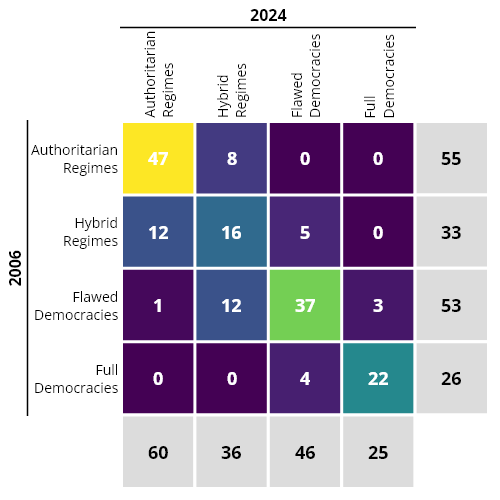
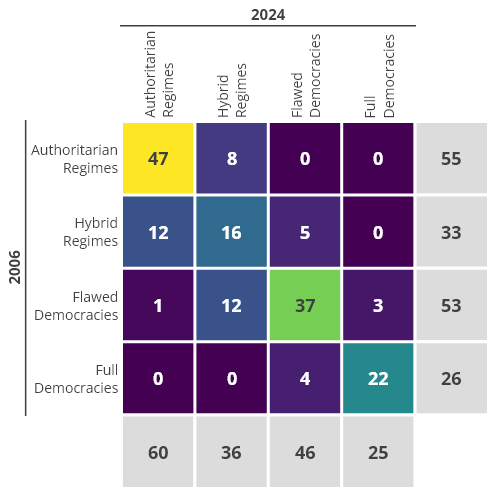
Adjust figure style.

diff --git a/reports/html/regime_migration.html b/reports/html/regime_migration.html
@@ -1,2 +1,2 @@
 <div>                        <script type="text/javascript">window.PlotlyConfig = {MathJaxConfig: 'local'};</script>
[2 lines of base64/hex data omitted]

diff --git a/src/plots.py b/src/plots.py
@@ -349,6 +349,7 @@ def plot_regions() -> None:
 
 
 def plot_regime_migration(start_year: int, end_year: int) -> None:
+    colors = Colors()
     m = get_migration_matrix(start_year, end_year)
     column_labels = ["Full<br>Democracies", "Flawed<br>Democracies",
                      "Hybrid<br>Regimes", "Authoritarian<br>Regimes"]
@@ -391,8 +392,8 @@ def plot_regime_migration(start_year: int, end_year: int) -> None:
         for c in range(num_cols):
             if not np.isnan(m[r, c]):
                 text_color = "white"
-                if (r == num_rows - 1 or c == num_cols - 1):
-                    text_color = "black"
+                if (r == num_rows - 1 or c == num_cols - 1 or m[r, c] >= 30):
+                    text_color = colors.DARK_GRAY
                 fig.add_annotation(
                     x=c, y=num_rows - r - 1,
                     text="<b>" + str(int(m[r, c])) + "</b>",
@@ -403,24 +404,26 @@ def plot_regime_migration(start_year: int, end_year: int) -> None:
         fig.add_annotation(
             x=i, y=1, text=column_labels[len(column_labels) - i - 1],
             showarrow=False, yref="paper", xanchor="center", yanchor="bottom",
-            textangle=270, align="left", font=dict(color="black", size=14))
+            textangle=270, align="left", font=dict(color=colors.DARK_GRAY,
+                                                   size=14))
         fig.add_annotation(
             x=0, y=i + 1, text=col, xref="paper", showarrow=False,
             xanchor="right", yanchor="middle", align="right",
-            font=dict(color="black", size=14))
+            font=dict(color=colors.DARK_GRAY, size=14))
 
-    fig.add_shape(type="line", x0=-0.25, y0=0.2, x1=-0.25, y1=1, xref="paper",
-                  yref="paper", line=dict(color="black", width=1.5))
-    fig.add_shape(type="line", x0=0, y0=1.25, x1=0.8, y1=1.25, xref="paper",
-                  yref="paper", line=dict(color="black", width=1.5))
+    fig.add_shape(type="line", x0=-0.255, y0=0.2, x1=-0.255, y1=1,
+                  xref="paper", yref="paper",
+                  line=dict(color=colors.DARK_GRAY, width=1.5))
+    fig.add_shape(type="line", x0=0, y0=1.255, x1=0.8, y1=1.255, xref="paper",
+                  yref="paper", line=dict(color=colors.DARK_GRAY, width=1.5))
     fig.add_annotation(
         x=0.4, y=1.32, text=f"<b>{end_year}</b>", xref="paper",
         showarrow=False, align="center", yref="paper",
-        font=dict(color="black", size=16))
+        font=dict(color=colors.DARK_GRAY, size=15))
     fig.add_annotation(
         x=-0.32, y=0.6, text=f"<b>{start_year}</b>", xref="paper",
         showarrow=False, align="center", yref="paper", textangle=270,
-        font=dict(color="black", size=16))
+        font=dict(color=colors.DARK_GRAY, size=15))
 
     fig.update_layout(
         xaxis=dict(showticklabels=False, showgrid=False, zeroline=False),
